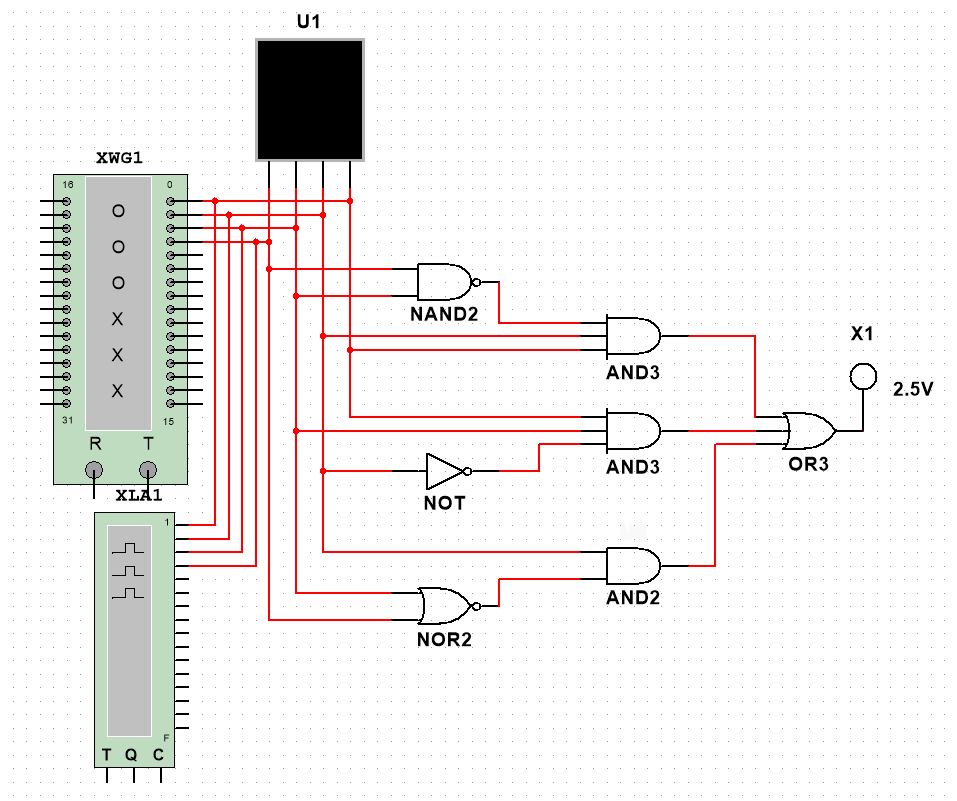
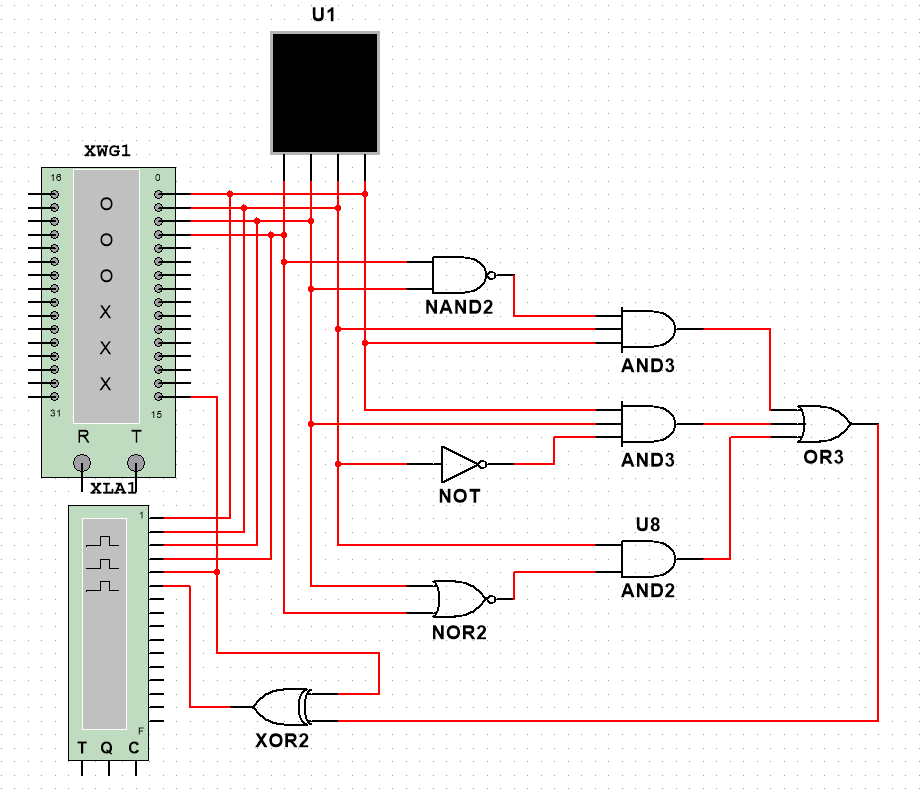
Tests 1b added

diff --git a/cw1/report.tex b/cw1/report.tex
@@ -214,10 +214,20 @@ Opisany schemat w programie multisim.
     \label{rys:1b_usable_circuit}
 \end{figure}
 
+\section{Testy}
 W celu kompleksowego przetestowania układu przyciski zamieniono na generator słów bitowych XWG1 
-oraz podłączono analizator stanów logicznych XLA1.
-Odpowiednio dobierając częstotliwości próbkowania i generowanych sygnałów możemy zweryfikować poprawność układu.
+oraz podłączono analizator stanów logicznych XLA1. Na ostatnim bicie wyjścia generatora słów bitowych ustawiono
+ręcznie oczekiwane odpowiedzi. Pin z oczekiwanymi odpowiedziami połączony został bramką XOR z wyjściem testowanego
+układu która podłączona jest do analizatora cyfrowego. Stan wysoki na tej bramce oznaczałby błąd w zaprojektowanym układzie.
+Sprawdzenie za pomocą analizatora cyfrowego czy dla każdej kombinacji wejścia wspomniana bramka XOR ma stan niski pozwala na
+zweryfikowanie poprawności układu
 
+\begin{figure}[H]
+    \centering
+    \includegraphics[width=1\textwidth]{images/1b_word_generator.PNG}
+    \caption{Wartości z generatora słów bitowych}
+    \label{rys:1b_test_circuit}
+\end{figure}
 \begin{figure}[H]
     \centering
     \includegraphics[width=1\textwidth]{images/1b_schema_2.PNG}
@@ -226,7 +236,7 @@ Odpowiednio dobierając częstotliwości próbkowania i generowanych sygnałów 
 \end{figure}
 \begin{figure}[H]
     \centering
-    \includegraphics[width=1\textwidth]{images/1b_result.PNG}
+    \includegraphics[width=0.6\textwidth]{images/1b_result.PNG}
     \caption{Wskazania analizatora}
     \label{rys:1b_test_results}
 \end{figure}
